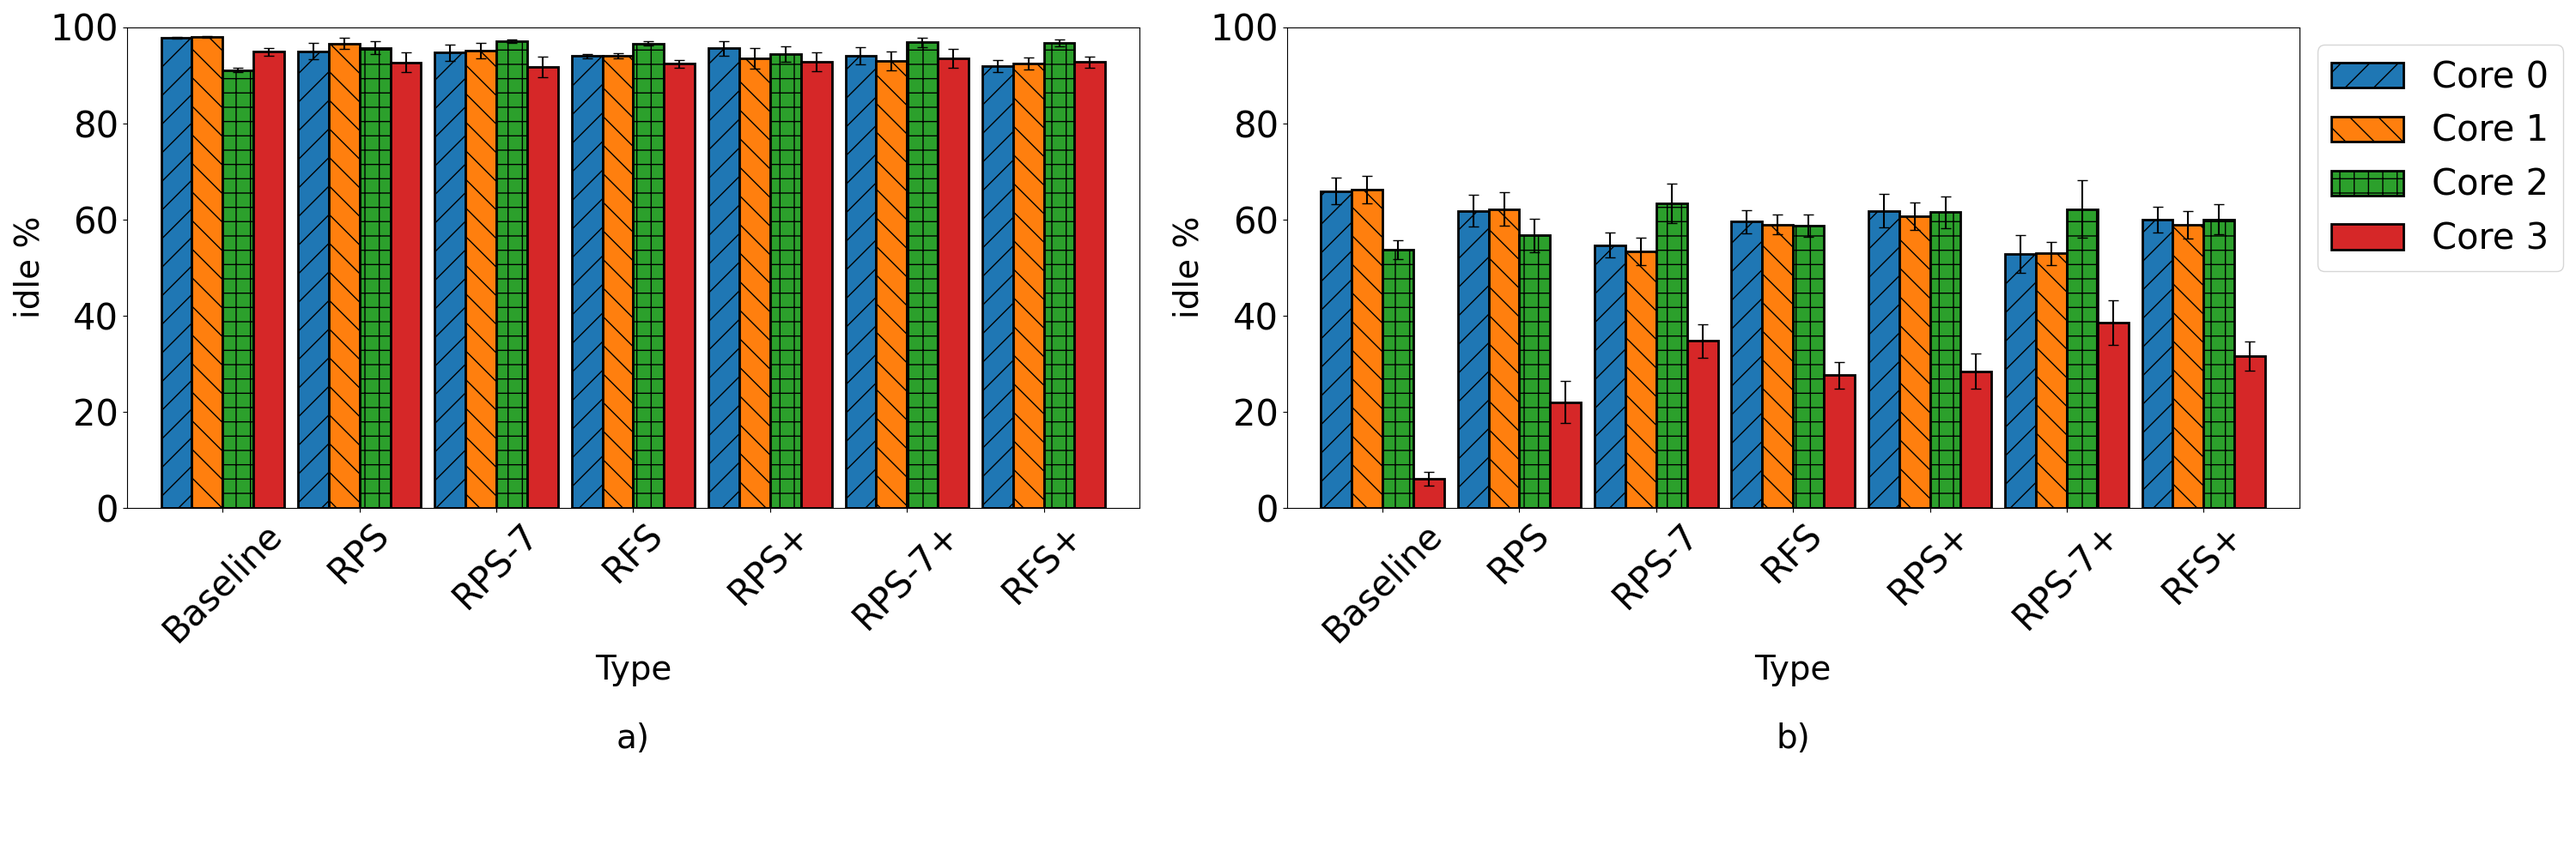
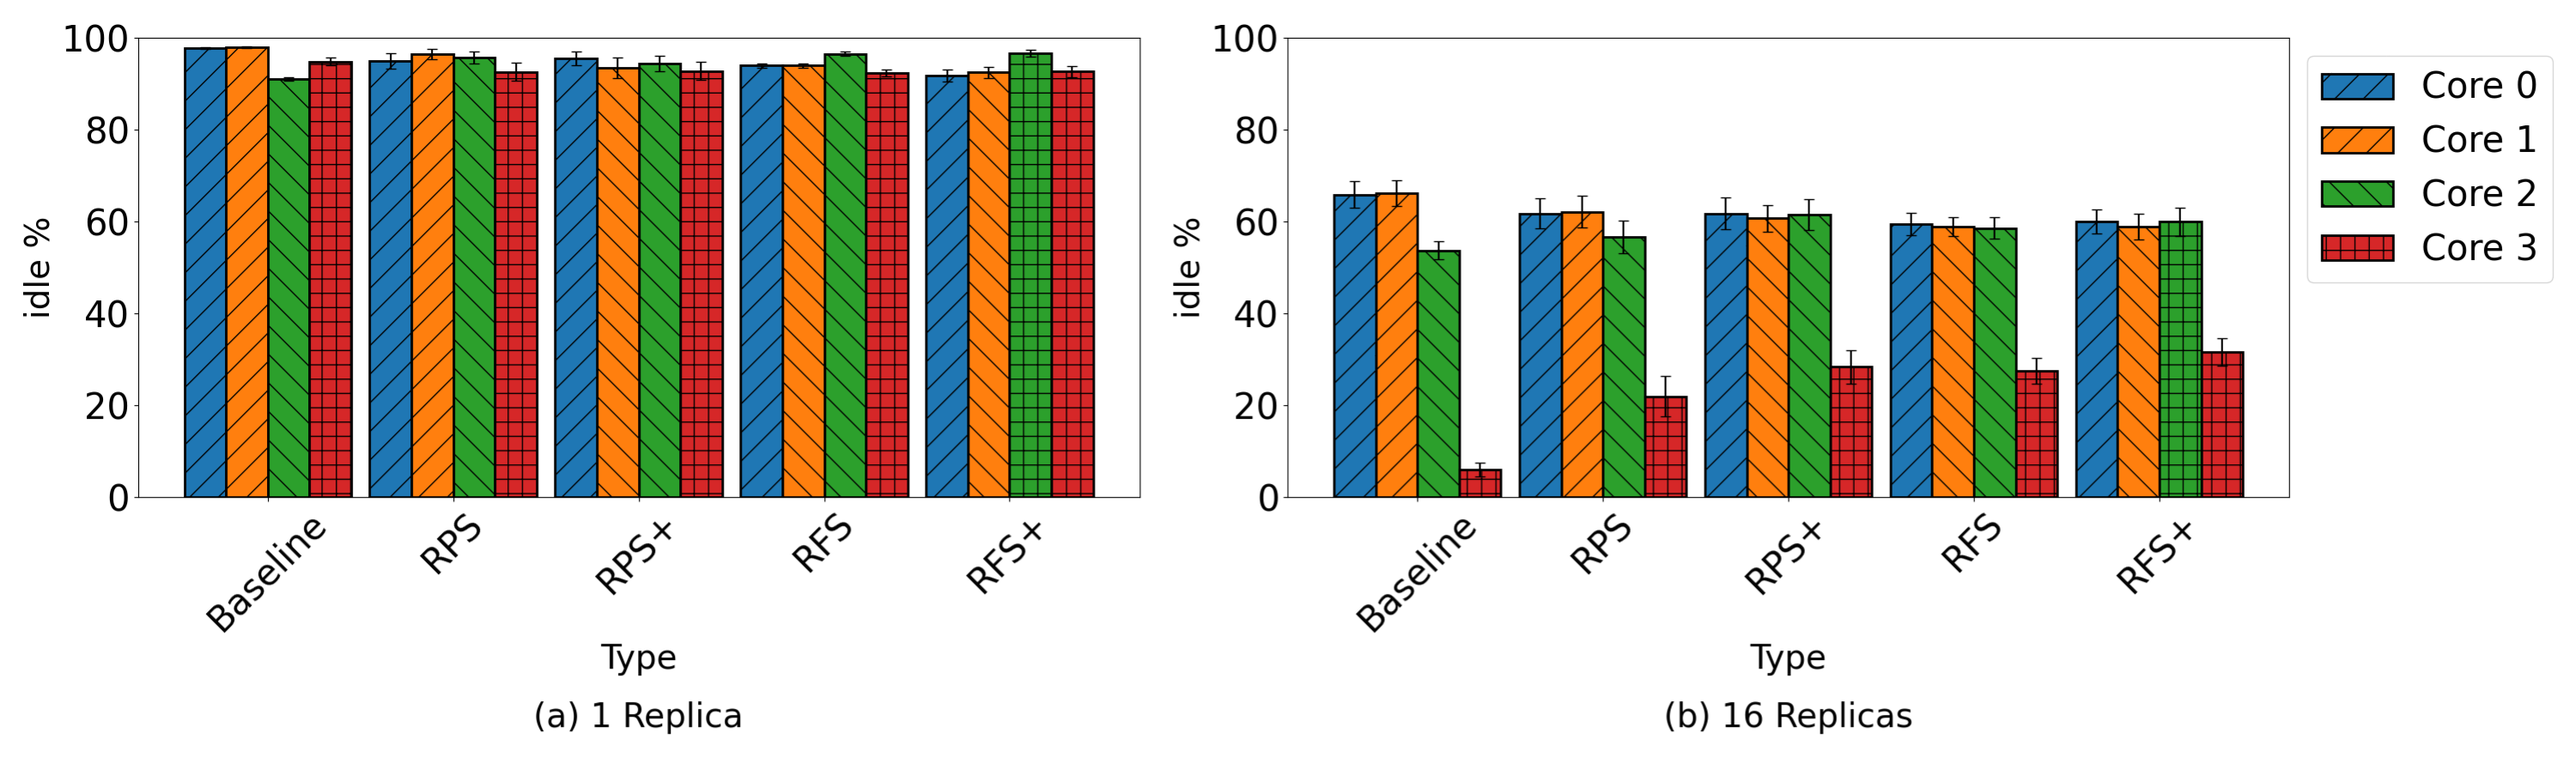
new graphs

diff --git a/data_parse/generate.py b/data_parse/generate.py
@@ -5,6 +5,15 @@ import matplotlib.pyplot as plt
 df = pd.read_csv('finalized_bitrate.csv')
 confidence_df = pd.read_csv('confidence_bitrate.csv')
 
+# Filter out columns containing "RPS-7" or "RPS-7+"
+df = df.loc[:, ~df.columns.str.contains('RPS-7')]
+confidence_df = confidence_df.loc[:, ~confidence_df.columns.str.contains('RPS-7')]
+
+# Reorder the columns
+columns_order = ['Replicas', 'Baseline', 'RPS', 'RPS+', 'RFS', 'RFS+']
+df = df[columns_order]
+confidence_df = confidence_df[columns_order]
+
 # Set the 'Replicas' column as the index
 df.set_index('Replicas', inplace=True)
 confidence_df.set_index('Replicas', inplace=True)
@@ -57,7 +66,16 @@ for group in data_groups:
         df = pd.read_csv(f'finalized_{data}.csv')
         confidence_df = pd.read_csv(f'confidence_{data}.csv')
 
-        # Set the 'Replicas' column as the index
+        # Filter out rows containing "RPS-7" or "RPS-7+"
+        df = df[~df['Type'].str.contains('RPS-7')]
+        confidence_df = confidence_df[~confidence_df['Type'].str.contains('RPS-7')]
+
+        # Reorder the rows
+        rows_order = ['Baseline', 'RPS', 'RPS+', 'RFS', 'RFS+']
+        df = df.set_index('Type').reindex(rows_order).reset_index()
+        confidence_df = confidence_df.set_index('Type').reindex(rows_order).reset_index()
+
+        # Set the 'Type' column as the index
         df.set_index('Type', inplace=True)
         confidence_df.set_index('Type', inplace=True)
         df.plot(kind='bar', yerr=confidence_df.values.T, ax=ax, capsize=4, width=0.9, edgecolor='black', linewidth=2)
@@ -83,10 +101,10 @@ for group in data_groups:
         ax.set_xticklabels(ax.get_xticklabels(), rotation=45, fontsize=30)
         ax.tick_params(axis='y', labelsize=30)
 
-    axes[0].annotate('a)', xy=(0.5, -0.5), xycoords='axes fraction', fontsize=28, ha='center')
-    axes[1].annotate('b)', xy=(0.5, -0.5), xycoords='axes fraction', fontsize=28, ha='center')
+    axes[0].annotate('(a) 1 Replica', xy=(0.5, -0.5), xycoords='axes fraction', fontsize=28, ha='center')
+    axes[1].annotate('(b) 16 Replicas', xy=(0.5, -0.5), xycoords='axes fraction', fontsize=28, ha='center')
 
-    plt.tight_layout()
+    plt.tight_layout(pad=2.0)
     plt.savefig(f'{group[0]}_{group[1]}.png')
 
     plt.clf()
